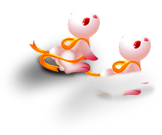
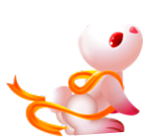
feat: add 兔子 animation

diff --git a/luoshi/js/view.js b/luoshi/js/view.js
@@ -20,6 +20,29 @@
 
       var mc = new createjs.MovieClip();
 
+      // 兔子
+      var tuzi = new createjs.Bitmap(queue.getResult('page1_04-tuzi_03-body'));
+      tuzi.setTransform(250, 1005);
+      mc.timeline.addTween(createjs.Tween.get(tuzi));
+      var ear1 = new createjs.Bitmap(queue.getResult('page1_04-tuzi_01-ear'));
+      ear1.setTransform(347, 1030);
+      ear1.regX = 50;
+      ear1.regY = 30;
+      mc.timeline.addTween(createjs.Tween.get(ear1, {loop: true})
+        .to({rotation: 5}, 10)
+        .to({rotation: 0}, 10)
+        .to({rotation: -5}, 10)
+        .to({rotation: 0}, 10));
+      var ear2 = new createjs.Bitmap(queue.getResult('page1_04-tuzi_02-ear'));
+      ear2.setTransform(333, 1065);
+      ear2.regX = 50;
+      ear2.regY = 30;
+      mc.timeline.addTween(createjs.Tween.get(ear2, {loop: true})
+        .to({rotation: 5}, 10)
+        .to({rotation: 0}, 10)
+        .to({rotation: -5}, 10)
+        .to({rotation: 0}, 10));
+
       // 箭头
       var arrow = new createjs.Bitmap(queue.getResult('page1_arrow'));
       arrow.setTransform(430, 1250);
